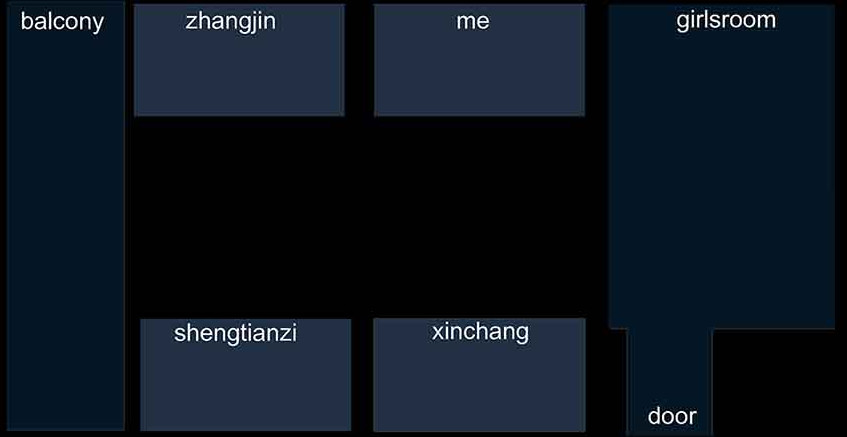
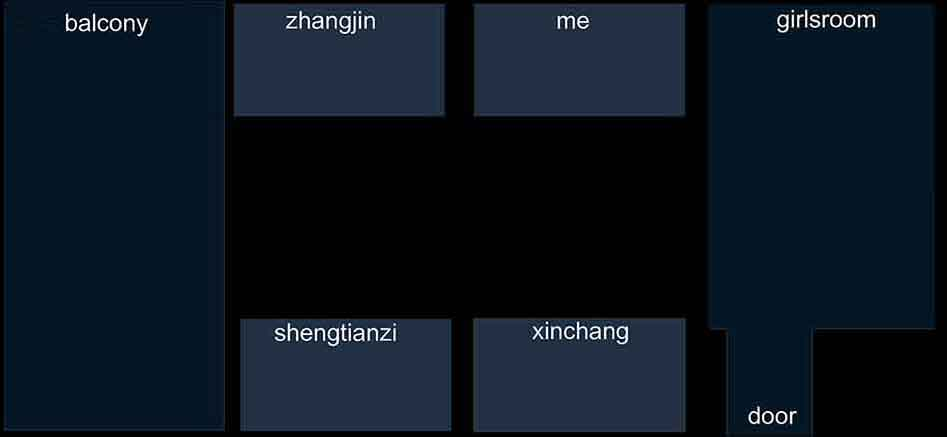
change image

Changed region(s): [[0.0, 0.0, 0.8595, 1.0], [0.7981, 0.0, 0.9516, 0.0892], [0.0, 0.9519, 0.0307, 0.9817]]

diff --git a/playground.html b/playground.html
@@ -90,31 +90,31 @@ body {
 
 
 <svg width="1200" height="500" style="display:block;">
- <image x="120" y="0" width="840" height="470" xlink:href="images/play.jpg"/>
+ <image x="20" y="0" width="840" height="470" xlink:href="images/play.jpg"/>
 
- <image id="c1" x="220" y="370" width="50" height="50" xlink:href="images/green.png"/>
- <image id="c2" x="450" y="380" width="50" height="50" xlink:href="images/green.png"/>
- <image id="c3" x="700" y="220" width="50" height="50" xlink:href="images/green.png"/>
- <image id="c4" x="700" y="350" width="50" height="50" xlink:href="images/green.png"/>
- <image id="c5" x="240" y="170" width="50" height="50" xlink:href="images/green.png"/>
- <image id="c6" x="340" y="110" width="50" height="50" xlink:href="images/green.png"/>
- <image id="c7" x="310" y="300" width="50" height="50" xlink:href="images/green.png"/>
- <image id="c8" x="540" y="280" width="50" height="50" xlink:href="images/green.png"/>
- <image id="c9" x="530" y="250" width="50" height="50" xlink:href="images/green.png"/>
- <image id="c10" x="620" y="410" width="50" height="50" xlink:href="images/green.png"/>
- <image id="me" x="440" y="140" width="60" height="60" xlink:href="images/me.png"/>
+ <image id="c1" x="120" y="370" width="50" height="50" xlink:href="images/green.png"/>
+ <image id="c2" x="350" y="380" width="50" height="50" xlink:href="images/green.png"/>
+ <image id="c3" x="600" y="220" width="50" height="50" xlink:href="images/green.png"/>
+ <image id="c4" x="600" y="350" width="50" height="50" xlink:href="images/green.png"/>
+ <image id="c5" x="140" y="170" width="50" height="50" xlink:href="images/green.png"/>
+ <image id="c6" x="240" y="110" width="50" height="50" xlink:href="images/green.png"/>
+ <image id="c7" x="210" y="300" width="50" height="50" xlink:href="images/green.png"/>
+ <image id="c8" x="440" y="280" width="50" height="50" xlink:href="images/green.png"/>
+ <image id="c9" x="430" y="250" width="50" height="50" xlink:href="images/green.png"/>
+ <image id="c10" x="520" y="410" width="50" height="50" xlink:href="images/green.png"/>
+ <image id="me" x="340" y="140" width="60" height="60" xlink:href="images/me.png"/>
 
-   <text id="c1text" x="220" y="370" text-anchor="middle" font-family="Georgia" font-size="14px" fill="white">20.34</text>
-   <text id="c2text" x="450" y="380" text-anchor="middle" font-family="Georgia" font-size="14px" fill="white">20.34</text>
-   <text id="c3text" x="700" y="220" text-anchor="middle" font-family="Georgia" font-size="14px" fill="white">20.34</text>
-   <text id="c4text" x="680" y="370" text-anchor="middle" font-family="Georgia" font-size="14px" fill="white">20.34</text>
-   <text id="c5text" x="240" y="170" text-anchor="middle" font-family="Georgia" font-size="14px" fill="white">20.34</text>
-   <text id="c6text" x="340" y="110" text-anchor="middle" font-family="Georgia" font-size="14px" fill="white">20.34</text>
-   <text id="c7text" x="310" y="300" text-anchor="middle" font-family="Georgia" font-size="14px" fill="white">20.34</text>
-   <text id="c8text" x="540" y="280" text-anchor="middle" font-family="Georgia" font-size="14px" fill="white">20.34</text>
-   <text id="c9text" x="530" y="250" text-anchor="middle" font-family="Georgia" font-size="14px" fill="white">20.34</text>
-   <text id="c10text" x="640" y="410" text-anchor="middle" font-family="Georgia" font-size="14px" fill="white">20.34</text>
-   <text id="displaytext" x="20" y="489" font-family="Arial" font-size="26px" fill="White">Hi</text>
+   <text id="c1text" x="120" y="370" text-anchor="middle" font-family="Georgia" font-size="14px" fill="white">20.34</text>
+   <text id="c2text" x="350" y="380" text-anchor="middle" font-family="Georgia" font-size="14px" fill="white">20.34</text>
+   <text id="c3text" x="600" y="220" text-anchor="middle" font-family="Georgia" font-size="14px" fill="white">20.34</text>
+   <text id="c4text" x="580" y="370" text-anchor="middle" font-family="Georgia" font-size="14px" fill="white">20.34</text>
+   <text id="c5text" x="140" y="170" text-anchor="middle" font-family="Georgia" font-size="14px" fill="white">20.34</text>
+   <text id="c6text" x="240" y="110" text-anchor="middle" font-family="Georgia" font-size="14px" fill="white">20.34</text>
+   <text id="c7text" x="210" y="300" text-anchor="middle" font-family="Georgia" font-size="14px" fill="white">20.34</text>
+   <text id="c8text" x="440" y="280" text-anchor="middle" font-family="Georgia" font-size="14px" fill="white">20.34</text>
+   <text id="c9text" x="430" y="250" text-anchor="middle" font-family="Georgia" font-size="14px" fill="white">20.34</text>
+   <text id="c10text" x="540" y="410" text-anchor="middle" font-family="Georgia" font-size="14px" fill="white">20.34</text>
+   <text id="displaytext" x="20" y="489" font-family="Arial" font-size="18px" fill="White">Hi</text>
 </svg>
 <div class="buttons" style="display:block; margin-left:270px;" >
 <input id="playbutton" type="button" value="play"/>
@@ -329,16 +329,16 @@ $("#playbutton").click(function(){
    nowplaying = true;
    timer = setInterval(function(){
 
-   drawcircle("#c1","#c1text",0,220,370,1);
-   drawcircle("#c2","#c2text",1,450,380,2);
-   drawcircle("#c3","#c3text",2,700,220,1);
-   drawcircle("#c4","#c4text",3,680,370,1);
-   drawcircle("#c5","#c5text",4,240,170,3);
-   drawcircle("#c6","#c6text",5,340,110,2);
-   drawcircle("#c7","#c7text",6,310,300,3);
-   drawcircle("#c8","#c8text",7,540,280,3);
-   drawcircle("#c9","#c9text",8,530,250,2);
-   drawcircle("#c10","#c10text",9,640,410,1);
+   drawcircle("#c1","#c1text",0,120,370,1);
+   drawcircle("#c2","#c2text",1,350,380,2);
+   drawcircle("#c3","#c3text",2,600,220,1);
+   drawcircle("#c4","#c4text",3,580,370,1);
+   drawcircle("#c5","#c5text",4,140,170,3);
+   drawcircle("#c6","#c6text",5,240,110,2);
+   drawcircle("#c7","#c7text",6,210,300,3);
+   drawcircle("#c8","#c8text",7,440,280,3);
+   drawcircle("#c9","#c9text",8,430,250,2);
+   drawcircle("#c10","#c10text",9,540,410,1);
 
    d3.select("#me").attr("y", (140 - (timeindex / 10)));
 

diff --git a/index.html b/index.html
@@ -96,14 +96,14 @@ body {
 
 
 <svg width="1200" height="500" style="display:block;">
- <image x="120" y="0" width="900" height="480" xlink:href="images/dorm.jpg"/>
+ <image x="20" y="0" width="900" height="480" xlink:href="images/dorm.jpg"/>
  <image id="c1" x="280" y="90" width="50" height="50" xlink:href="images/green.png"/>
  <image id="c2" x="280" y="370" width="50" height="50" xlink:href="images/green.png"/>
  <image id="c3" x="520" y="90" width="50" height="50" xlink:href="images/green.png"/>
  <image id="c4" x="520" y="370" width="50" height="50" xlink:href="images/green.png"/>
  <image id="c5" x="200" y="250" width="50" height="50" xlink:href="images/green_normal.png"/>
  <image id="c6" x="800" y="220" width="50" height="50" xlink:href="images/green_work.png"/>
- <image id="me" x="620" y="170" width="60" height="60" xlink:href="images/me.png"/>
+ <image id="me" x="520" y="170" width="60" height="60" xlink:href="images/me.png"/>
 
    <text id="c1text" x="320" y="90" text-anchor="middle" font-family="Georgia" font-size="18px" fill="white">20.34</text>
    <text id="c2text" x="320" y="390" text-anchor="middle" font-family="Georgia" font-size="18px" fill="white">20.34</text>
@@ -111,7 +111,7 @@ body {
    <text id="c4text" x="570" y="390" text-anchor="middle" font-family="Georgia" font-size="18px" fill="white">20.34</text>
    <text id="c5text" x="200" y="250" text-anchor="middle" font-family="Georgia" font-size="18px" fill="white">20.34</text>
    <text id="c6text" x="800" y="220" text-anchor="middle" font-family="Georgia" font-size="18px" fill="white">20.34</text>
-   <text id="displaytext" x="20" y="489" font-family="Arial" font-size="26px" fill="White">Hi</text>
+   <text id="displaytext" x="20" y="489" font-family="Arial" font-size="18px" fill="White">Hi</text>
 </svg>
 
 <div class="buttons" style="display:block; margin-left:270px;" >
